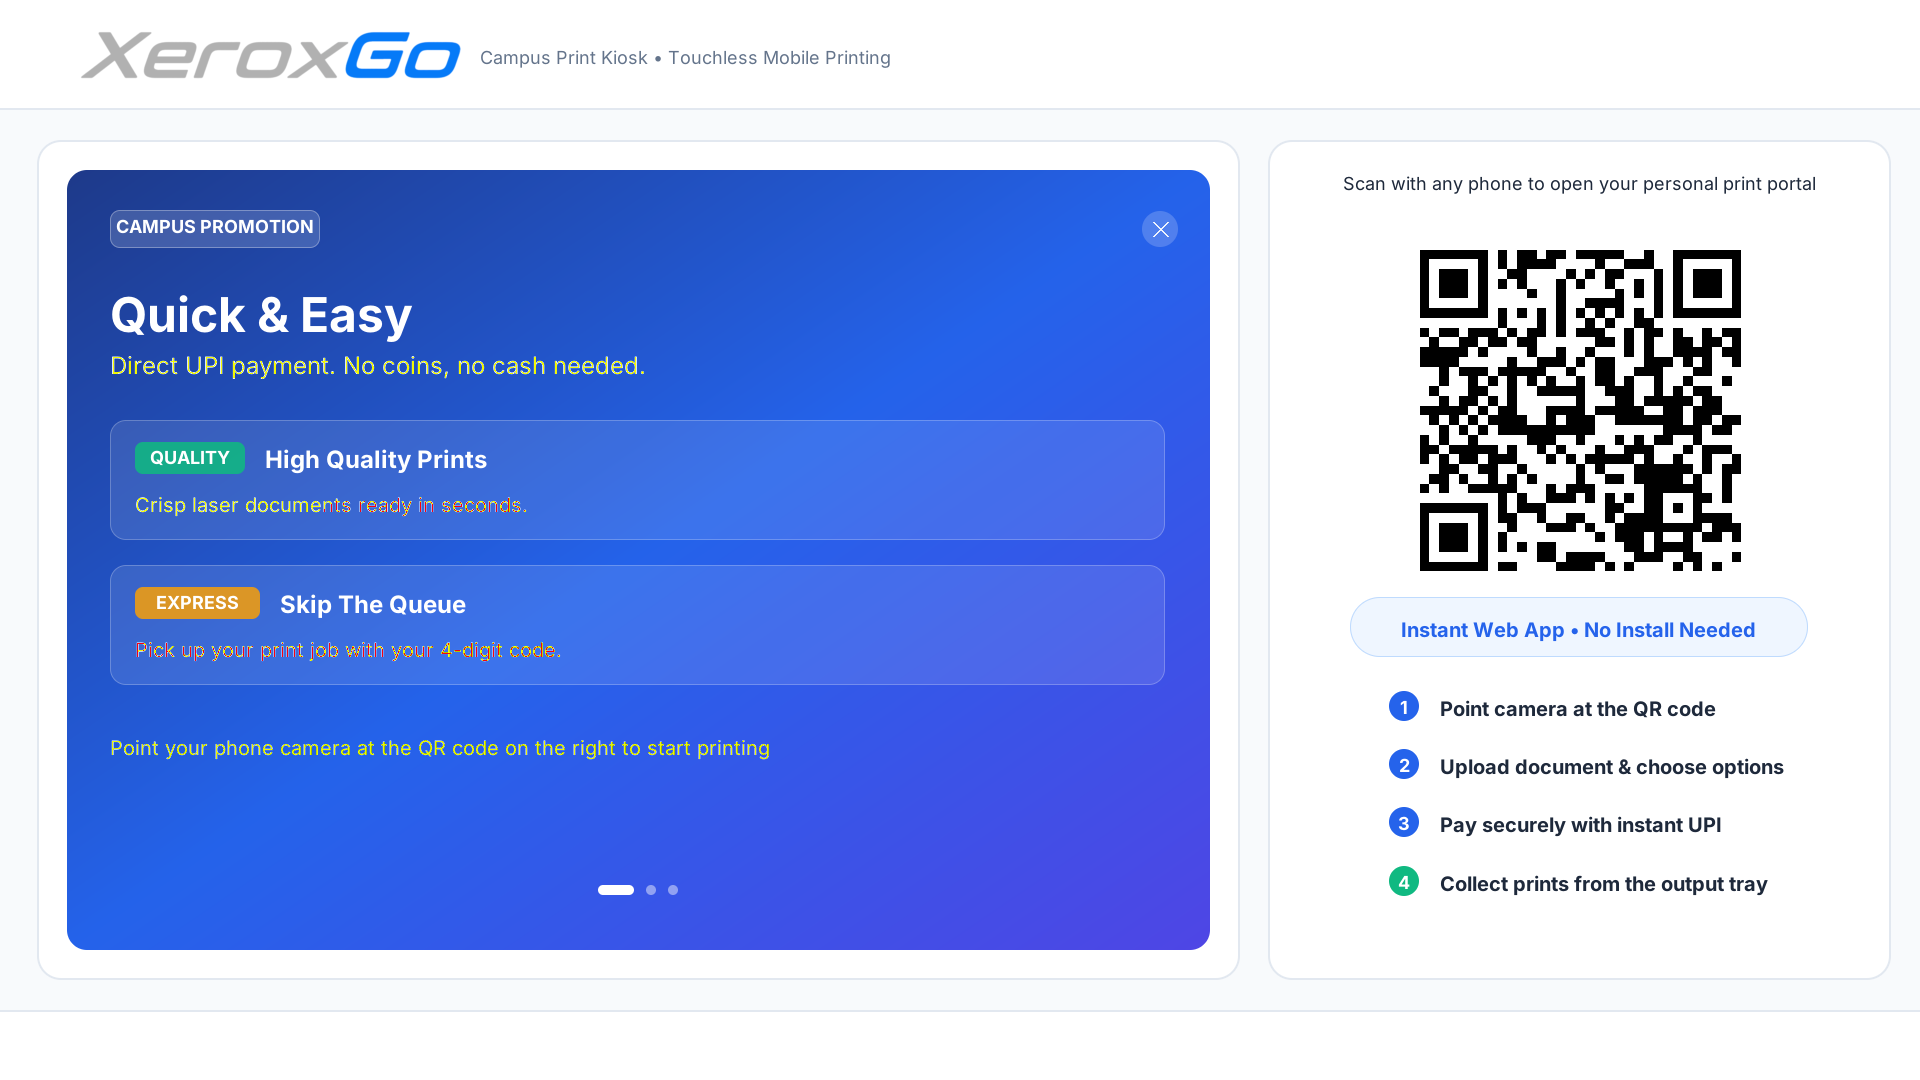
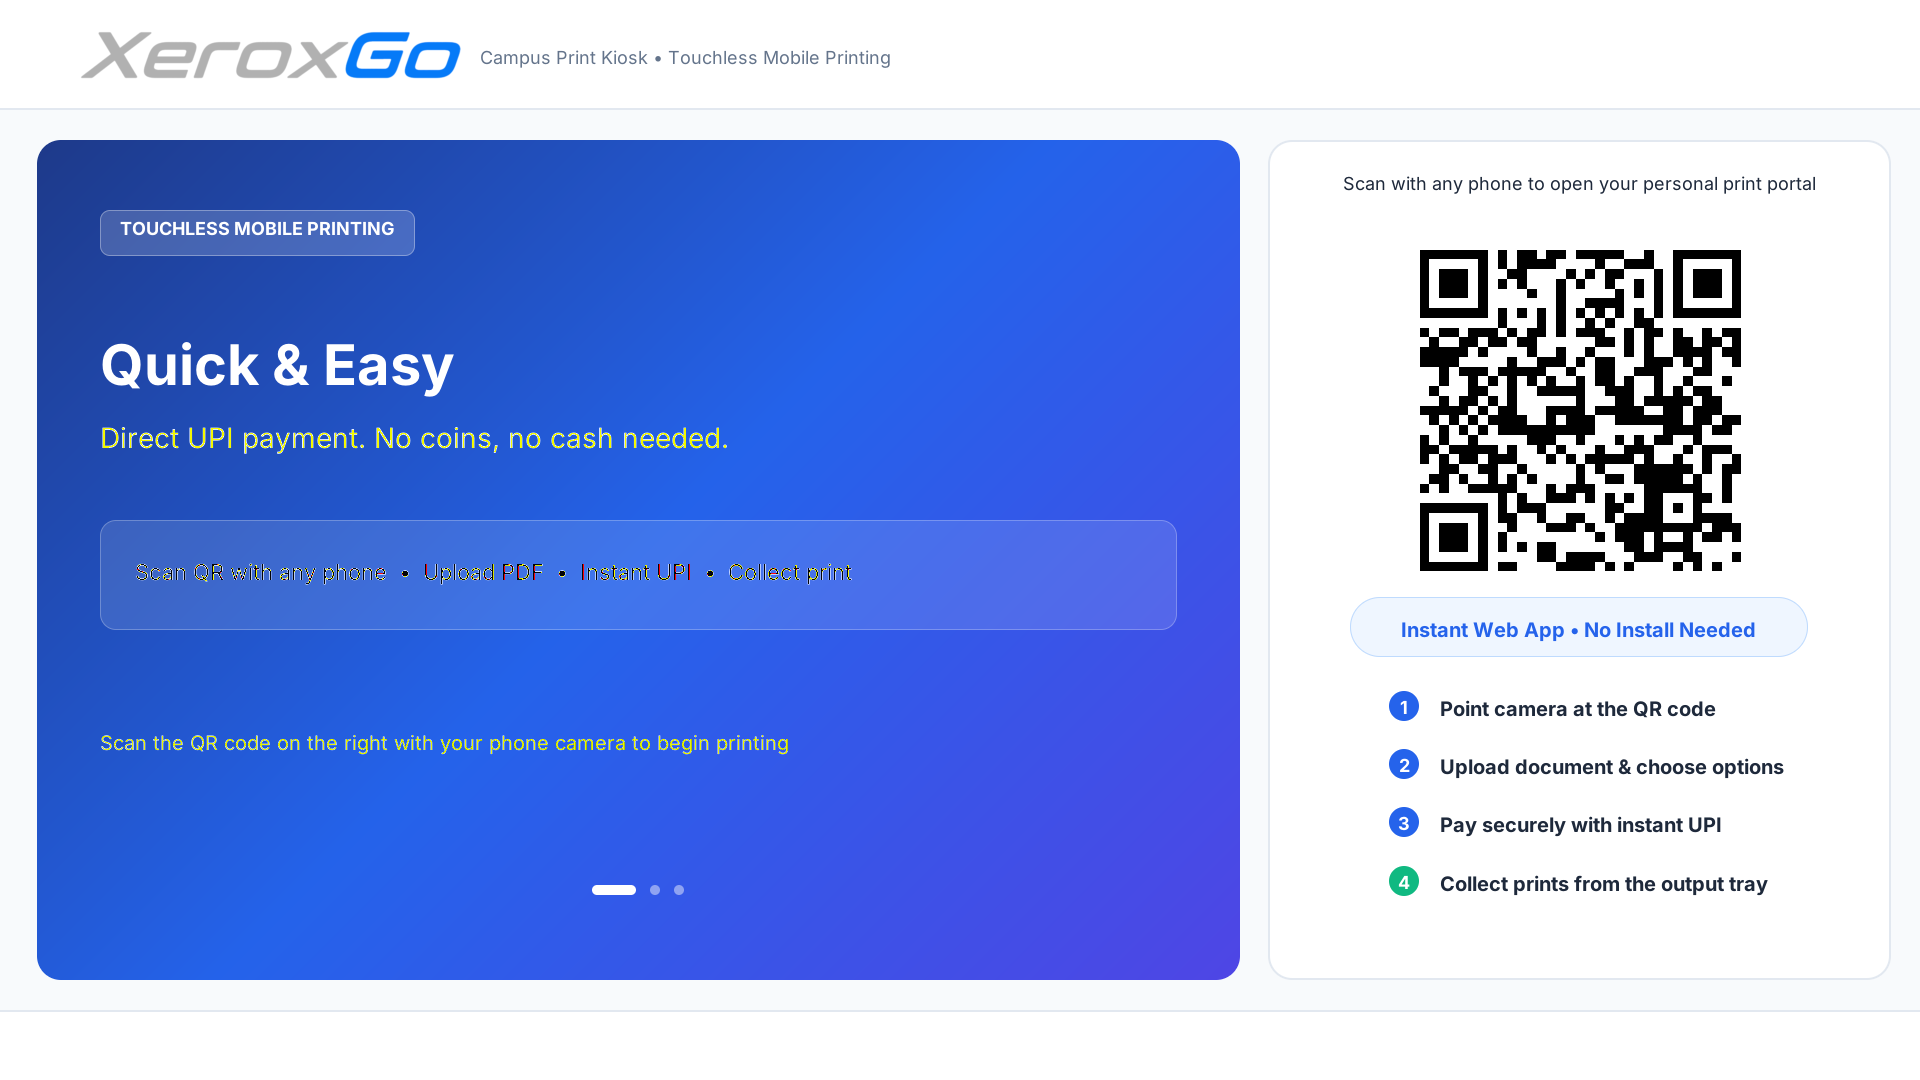
feat(kiosk-ui): implement 3 full-size dynamic carousel ad cards with true 135deg mobile gradients

Changed region(s): [[0.0, 0.1222, 0.6562, 0.9167]]

diff --git a/kiosk-daemon/internal/ui_ipc/renderer.go b/kiosk-daemon/internal/ui_ipc/renderer.go
@@ -42,6 +42,7 @@ type ScreenState struct {
 	CurrentPage     int
 	TotalPages      int
 	PrinterModel    string
+	AdSlideIndex    int // 0: Quick & Easy, 1: High Quality Prints, 2: Skip The Queue
 }
 
 type Sink func(*image.RGBA) error
@@ -189,66 +190,94 @@ func drawHeaderBadge(dst *image.RGBA, mode ScreenMode) {
 	drawText(dst, faceBold18, label, startX, startY, textCol)
 }
 
+// AdSlide models a single promotional slide from the mobile frontend carousel.
+type AdSlide struct {
+	Title   string
+	Desc    string
+	Tag     string
+	Subline string
+	C0      color.RGBA
+	C1      color.RGBA
+	C2      color.RGBA
+}
+
+var adSlides = [3]AdSlide{
+	{
+		Title:   "Quick & Easy",
+		Desc:    "Direct UPI payment. No coins, no cash needed.",
+		Tag:     "TOUCHLESS MOBILE PRINTING",
+		Subline: "Scan QR with any phone  •  Upload PDF  •  Instant UPI  •  Collect print",
+		C0:      color.RGBA{R: 30, G: 58, B: 138, A: 255},  // #1E3A8A
+		C1:      color.RGBA{R: 37, G: 99, B: 235, A: 255},  // #2563EB
+		C2:      color.RGBA{R: 79, G: 70, B: 229, A: 255},  // #4F46E5
+	},
+	{
+		Title:   "High Quality Prints",
+		Desc:    "Crisp laser documents ready in seconds.",
+		Tag:     "CAMPUS PRINT PORTAL",
+		Subline: "Single & Double-Sided (Duplex)  •  Full Color & Monochrome  •  600 DPI",
+		C0:      color.RGBA{R: 6, G: 95, B: 70, A: 255},    // #065F46
+		C1:      color.RGBA{R: 16, G: 185, B: 129, A: 255}, // #10B981
+		C2:      color.RGBA{R: 5, G: 150, B: 105, A: 255},  // #059669
+	},
+	{
+		Title:   "Skip The Queue",
+		Desc:    "Pick up your print job with your 4-digit code.",
+		Tag:     "EXPRESS CAMPUS PICKUP",
+		Subline: "Upload from anywhere on campus  •  Release with your PIN in seconds",
+		C0:      color.RGBA{R: 88, G: 28, B: 135, A: 255},  // #581C87
+		C1:      color.RGBA{R: 124, G: 58, B: 237, A: 255}, // #7C3AED
+		C2:      color.RGBA{R: 217, G: 119, B: 6, A: 255},  // #D97706
+	},
+}
+
 func renderIdle(dst *image.RGBA, state ScreenState) error {
-	// 1. Left Card: Ad Card containing mobile frontend Promo Banner Carousel placeholder
-	leftCard := image.Rect(37, 140, 1240, 980)
-	fillRoundedRect(dst, leftCard, 24, colorCardBg)
-	strokeRoundedRect(dst, leftCard, 24, 2, colorBorder)
+	// 1. Left Card: Ad Card (occupies full [37, 140, 1240, 980] bounds, no redundant white card)
+	adCard := image.Rect(37, 140, 1240, 980)
 
-	// Inset promo banner container matching mobile frontend's .banner-container
-	bannerRect := image.Rect(67, 170, 1210, 950)
-	// 135-degree linear gradient from #1E3A8A (rgb 30,58,138) to #2563EB (rgb 37,99,235) to #4F46E5 (rgb 79,70,229)
-	fillRoundedGradient(dst, bannerRect, 20,
-		color.RGBA{R: 30, G: 58, B: 138, A: 255},
-		color.RGBA{R: 37, G: 99, B: 235, A: 255},
-		color.RGBA{R: 79, G: 70, B: 229, A: 255},
-	)
+	// Pick active slide (0, 1, or 2)
+	slideIndex := state.AdSlideIndex % 3
+	if slideIndex < 0 {
+		slideIndex = (slideIndex + 3) % 3
+	}
+	slide := adSlides[slideIndex]
 
-	// Top row: Tag Pill & Close Button
-	tagRect := image.Rect(110, 210, 320, 248)
-	fillRoundedRect(dst, tagRect, 10, color.RGBA{R: 255, G: 255, B: 255, A: 40})
-	strokeRoundedRect(dst, tagRect, 10, 1, color.RGBA{R: 255, G: 255, B: 255, A: 80})
-	tagText := "CAMPUS PROMOTION"
-	tagW := measureTextWidth(faceBold18, tagText)
-	drawText(dst, faceBold18, tagText, tagRect.Min.X+(tagRect.Dx()-tagW)/2, tagRect.Min.Y+5, colorTextWhite)
+	// 135-degree true CSS linear gradient filling the full left card with rx=24
+	fillRoundedGradient(dst, adCard, 24, slide.C0, slide.C1, slide.C2)
 
-	// Close button at top right
-	drawCloseButton(dst, 1160, 229, 18)
+	// Top row: Tag Pill (No close button!)
+	tagW := measureTextWidth(faceBold18, slide.Tag)
+	tagRect := image.Rect(100, 210, 100+tagW+40, 256)
+	fillRoundedRect(dst, tagRect, 10, color.RGBA{R: 255, G: 255, B: 255, A: 45})
+	strokeRoundedRect(dst, tagRect, 10, 1, color.RGBA{R: 255, G: 255, B: 255, A: 85})
+	drawText(dst, faceBold18, slide.Tag, tagRect.Min.X+20, tagRect.Min.Y+7, colorTextWhite)
 
-	// Slide 1 Hero: "Quick & Easy"
-	drawText(dst, faceBold48, "Quick & Easy", 110, 285, colorTextWhite)
-	drawText(dst, faceReg24, "Direct UPI payment. No coins, no cash needed.", 110, 350, color.RGBA{R: 241, G: 245, B: 249, A: 240})
+	// Main Hero Slide Title & Description
+	drawText(dst, faceBold56, slide.Title, 100, 330, colorTextWhite)
+	drawText(dst, faceReg28, slide.Desc, 100, 420, color.RGBA{R: 241, G: 245, B: 249, A: 245})
 
-	// Slide 2 & 3 Feature Highlights (Translucent cards matching mobile promo content)
-	card1 := image.Rect(110, 420, 1165, 540)
-	fillRoundedRect(dst, card1, 16, color.RGBA{R: 255, G: 255, B: 255, A: 28})
-	strokeRoundedRect(dst, card1, 16, 1, color.RGBA{R: 255, G: 255, B: 255, A: 60})
-	pill1 := image.Rect(135, 442, 245, 474)
-	fillRoundedRect(dst, pill1, 8, color.RGBA{R: 16, G: 185, B: 129, A: 220})
-	p1W := measureTextWidth(faceBold18, "QUALITY")
-	drawText(dst, faceBold18, "QUALITY", pill1.Min.X+(pill1.Dx()-p1W)/2, pill1.Min.Y+4, colorTextWhite)
-	drawText(dst, faceBold24, "High Quality Prints", 265, 444, colorTextWhite)
-	drawText(dst, faceReg20, "Crisp laser documents ready in seconds.", 135, 492, color.RGBA{R: 241, G: 245, B: 249, A: 230})
-
-	card2 := image.Rect(110, 565, 1165, 685)
-	fillRoundedRect(dst, card2, 16, color.RGBA{R: 255, G: 255, B: 255, A: 28})
-	strokeRoundedRect(dst, card2, 16, 1, color.RGBA{R: 255, G: 255, B: 255, A: 60})
-	pill2 := image.Rect(135, 587, 260, 619)
-	fillRoundedRect(dst, pill2, 8, color.RGBA{R: 245, G: 158, B: 11, A: 220})
-	p2W := measureTextWidth(faceBold18, "EXPRESS")
-	drawText(dst, faceBold18, "EXPRESS", pill2.Min.X+(pill2.Dx()-p2W)/2, pill2.Min.Y+4, colorTextWhite)
-	drawText(dst, faceBold24, "Skip The Queue", 280, 589, colorTextWhite)
-	drawText(dst, faceReg20, "Pick up your print job with your 4-digit code.", 135, 637, color.RGBA{R: 241, G: 245, B: 249, A: 230})
+	// Frosted feature card
+	featureRect := image.Rect(100, 520, 1177, 630)
+	fillRoundedRect(dst, featureRect, 16, color.RGBA{R: 255, G: 255, B: 255, A: 32})
+	strokeRoundedRect(dst, featureRect, 16, 1, color.RGBA{R: 255, G: 255, B: 255, A: 65})
+	drawText(dst, faceReg22, slide.Subline, 135, 558, color.RGBA{R: 255, G: 255, B: 255, A: 245})
 
 	// Prompt subtext
-	drawText(dst, faceReg20, "Point your phone camera at the QR code on the right to start printing", 110, 735, color.RGBA{R: 226, G: 232, B: 240, A: 220})
+	drawText(dst, faceReg20, "Scan the QR code on the right with your phone camera to begin printing", 100, 730, color.RGBA{R: 226, G: 232, B: 240, A: 225})
 
 	// Bottom Carousel Indicators matching mobile frontend (.banner-indicators)
-	// Active pill (width 36, height 10) + 2 inactive dots (diameter 10)
-	indActive := image.Rect(598, 885, 634, 895)
-	fillRoundedRect(dst, indActive, 5, color.RGBA{R: 255, G: 255, B: 255, A: 255})
-	drawCircle(dst, 651, 890, 5, color.RGBA{R: 255, G: 255, B: 255, A: 115})
-	drawCircle(dst, 673, 890, 5, color.RGBA{R: 255, G: 255, B: 255, A: 115})
+	// Centered at x=638: active pill (w=44) + 2 inactive dots (w=10)
+	curX := 592
+	for k := 0; k < 3; k++ {
+		if k == slideIndex {
+			pill := image.Rect(curX, 885, curX+44, 895)
+			fillRoundedRect(dst, pill, 5, color.RGBA{R: 255, G: 255, B: 255, A: 255})
+			curX += 44 + 14
+		} else {
+			drawCircle(dst, curX+5, 890, 5, color.RGBA{R: 255, G: 255, B: 255, A: 115})
+			curX += 10 + 14
+		}
+	}
 
 	// 2. Right Card: QR Code + Onboarding Steps
 	rightCard := image.Rect(1268, 140, 1891, 980)

diff --git a/kiosk-daemon/internal/spooler/client.go b/kiosk-daemon/internal/spooler/client.go
@@ -43,6 +43,7 @@ type ClientConfig struct {
 	PrinterModel             string
 	DownloadDir              string
 	IdleQRContent            string
+	IdleCarouselInterval     time.Duration
 	CompletedDisplayDuration time.Duration
 	ErrorDisplayDuration     time.Duration
 	ScreenSink               ui_ipc.Sink
@@ -78,6 +79,10 @@ type Client struct {
 
 	renderHistoryMu sync.Mutex
 	renderHistory   []ui_ipc.ScreenState
+
+	currentModeMu sync.Mutex
+	currentMode   ui_ipc.ScreenMode
+	adSlideIndex  int
 
 	healthPoller func(ctx context.Context, estimatedSheets int) contracts.PrinterHealth
 }
@@ -205,6 +210,18 @@ func (c *Client) Run(ctx context.Context) error {
 		defer wg.Done()
 		c.jobWorker(ctx)
 	}()
+
+	// 3b. Start idle carousel ticker
+	if c.cfg.IdleCarouselInterval == 0 {
+		c.cfg.IdleCarouselInterval = 5 * time.Second
+	}
+	if c.cfg.IdleCarouselInterval > 0 {
+		wg.Add(1)
+		go func() {
+			defer wg.Done()
+			c.idleCarouselLoop(ctx)
+		}()
+	}
 
 	// 4. Connection & reconnection loop
 	delay := c.minBackoff
@@ -816,6 +833,10 @@ func (c *Client) renderScreen(state ui_ipc.ScreenState) error {
 	c.renderHistory = append(c.renderHistory, state)
 	c.renderHistoryMu.Unlock()
 
+	c.currentModeMu.Lock()
+	c.currentMode = state.Mode
+	c.currentModeMu.Unlock()
+
 	img, err := ui_ipc.Render(state)
 	if err != nil {
 		c.lastRenderErrMu.Lock()
@@ -830,4 +851,32 @@ func (c *Client) renderScreen(state ui_ipc.ScreenState) error {
 		return err
 	}
 	return nil
+}
+
+func (c *Client) idleCarouselLoop(ctx context.Context) {
+	ticker := time.NewTicker(c.cfg.IdleCarouselInterval)
+	defer ticker.Stop()
+
+	for {
+		select {
+		case <-ctx.Done():
+			return
+		case <-ticker.C:
+			c.currentModeMu.Lock()
+			isIdle := (c.currentMode == ui_ipc.ModeIdle)
+			if isIdle {
+				c.adSlideIndex = (c.adSlideIndex + 1) % 3
+				slideIdx := c.adSlideIndex
+				c.currentModeMu.Unlock()
+				_ = c.renderScreen(ui_ipc.ScreenState{
+					Mode:         ui_ipc.ModeIdle,
+					QRContent:    c.cfg.IdleQRContent,
+					Message:      "Ready to print",
+					AdSlideIndex: slideIdx,
+				})
+			} else {
+				c.currentModeMu.Unlock()
+			}
+		}
+	}
 }

diff --git a/kiosk-daemon/internal/ui_ipc/draw_helpers.go b/kiosk-daemon/internal/ui_ipc/draw_helpers.go
@@ -42,6 +42,7 @@ var (
 	faceBold36 font.Face
 	faceBold44 font.Face
 	faceBold48 font.Face
+	faceBold56 font.Face
 
 	rawLogoImg image.Image
 )
@@ -85,6 +86,7 @@ func initUIAssets() {
 		faceBold36 = makeFace(fBold, 36)
 		faceBold44 = makeFace(fBold, 44)
 		faceBold48 = makeFace(fBold, 48)
+		faceBold56 = makeFace(fBold, 56)
 
 		// 2. Decode Logo
 		if len(logoPNGBytes) > 0 {
@@ -203,6 +205,7 @@ func fillRoundedRect(dst *image.RGBA, r image.Rectangle, radius int, col color.R
 }
 
 // fillRoundedGradient fills a rectangle with rounded corners using a 135-degree 3-stop linear gradient.
+// In CSS, 135deg points down-right (dx = dy in screen pixels).
 func fillRoundedGradient(dst *image.RGBA, r image.Rectangle, radius int, c0, c1, c2 color.RGBA) {
 	r = r.Intersect(dst.Bounds())
 	if r.Empty() {
@@ -226,15 +229,17 @@ func fillRoundedGradient(dst *image.RGBA, r image.Rectangle, radius int, c0, c1,
 	cx1 := float64(r.Max.X - radius)
 	cy1 := float64(r.Max.Y - radius)
 
-	wF := float64(w)
-	hF := float64(h)
+	// True 135deg CSS linear gradient:
+	// Normalized position t along diagonal from top-left (x0, y0) to bottom-right (x1, y1):
+	// t = ((x - x0) + (y - y0)) / (w + h)
+	totalDist := float64(w + h)
 
 	r0, g0, b0 := float64(c0.R), float64(c0.G), float64(c0.B)
 	r1, g1, b1 := float64(c1.R), float64(c1.G), float64(c1.B)
 	r2, g2, b2 := float64(c2.R), float64(c2.G), float64(c2.B)
 
 	for y := r.Min.Y; y < r.Max.Y; y++ {
-		v := float64(y-r.Min.Y) / hF
+		yDist := float64(y - r.Min.Y)
 		fy := float64(y) + 0.5
 		isTop := y < r.Min.Y+radius
 		isBottom := y >= r.Max.Y-radius
@@ -286,8 +291,8 @@ func fillRoundedGradient(dst *image.RGBA, r image.Rectangle, radius int, c0, c1,
 				}
 			}
 
-			u := float64(x-r.Min.X) / wF
-			t := (u + v) * 0.5
+			// True 135-degree linear interpolation
+			t := (float64(x-r.Min.X) + yDist) / totalDist
 
 			var cr, cg, cb float64
 			if t <= 0.5 {

diff --git a/kiosk-daemon/cmd/preview/main.go b/kiosk-daemon/cmd/preview/main.go
@@ -25,6 +25,25 @@ func main() {
 				Mode:         ui_ipc.ModeIdle,
 				QRContent:    "https://frontend-chi-nine-50.vercel.app/k/kiosk-demo",
 				PrinterModel: "Brother DCP-T310",
+				AdSlideIndex: 0,
+			},
+		},
+		{
+			name: "01_idle_slide2.png",
+			state: ui_ipc.ScreenState{
+				Mode:         ui_ipc.ModeIdle,
+				QRContent:    "https://frontend-chi-nine-50.vercel.app/k/kiosk-demo",
+				PrinterModel: "Brother DCP-T310",
+				AdSlideIndex: 1,
+			},
+		},
+		{
+			name: "01_idle_slide3.png",
+			state: ui_ipc.ScreenState{
+				Mode:         ui_ipc.ModeIdle,
+				QRContent:    "https://frontend-chi-nine-50.vercel.app/k/kiosk-demo",
+				PrinterModel: "Brother DCP-T310",
+				AdSlideIndex: 2,
 			},
 		},
 		{
